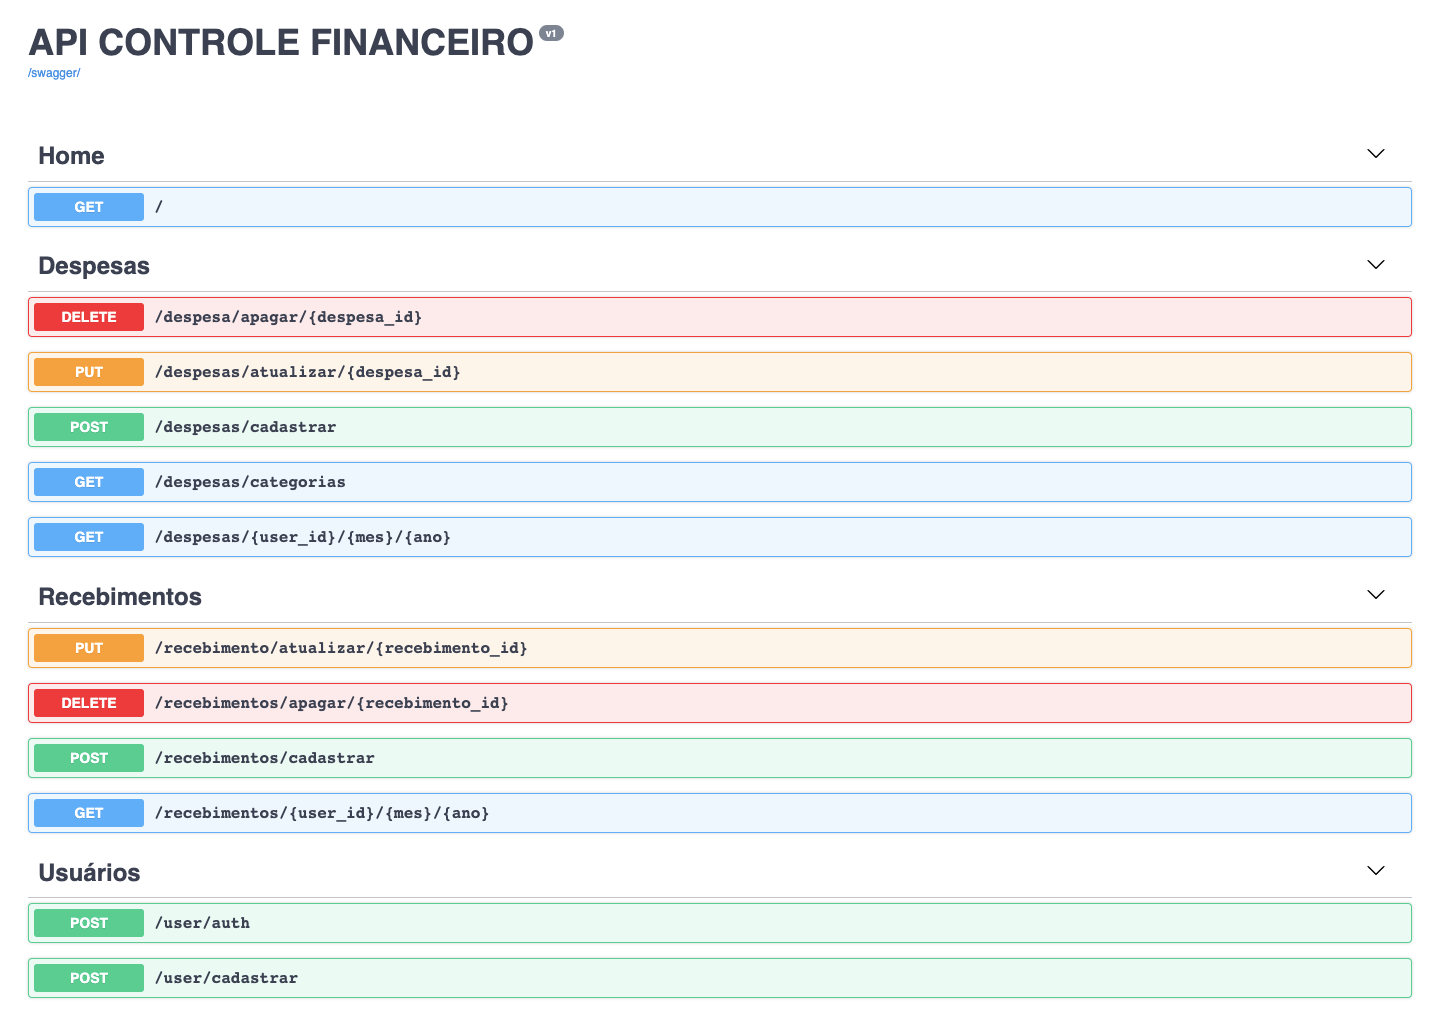
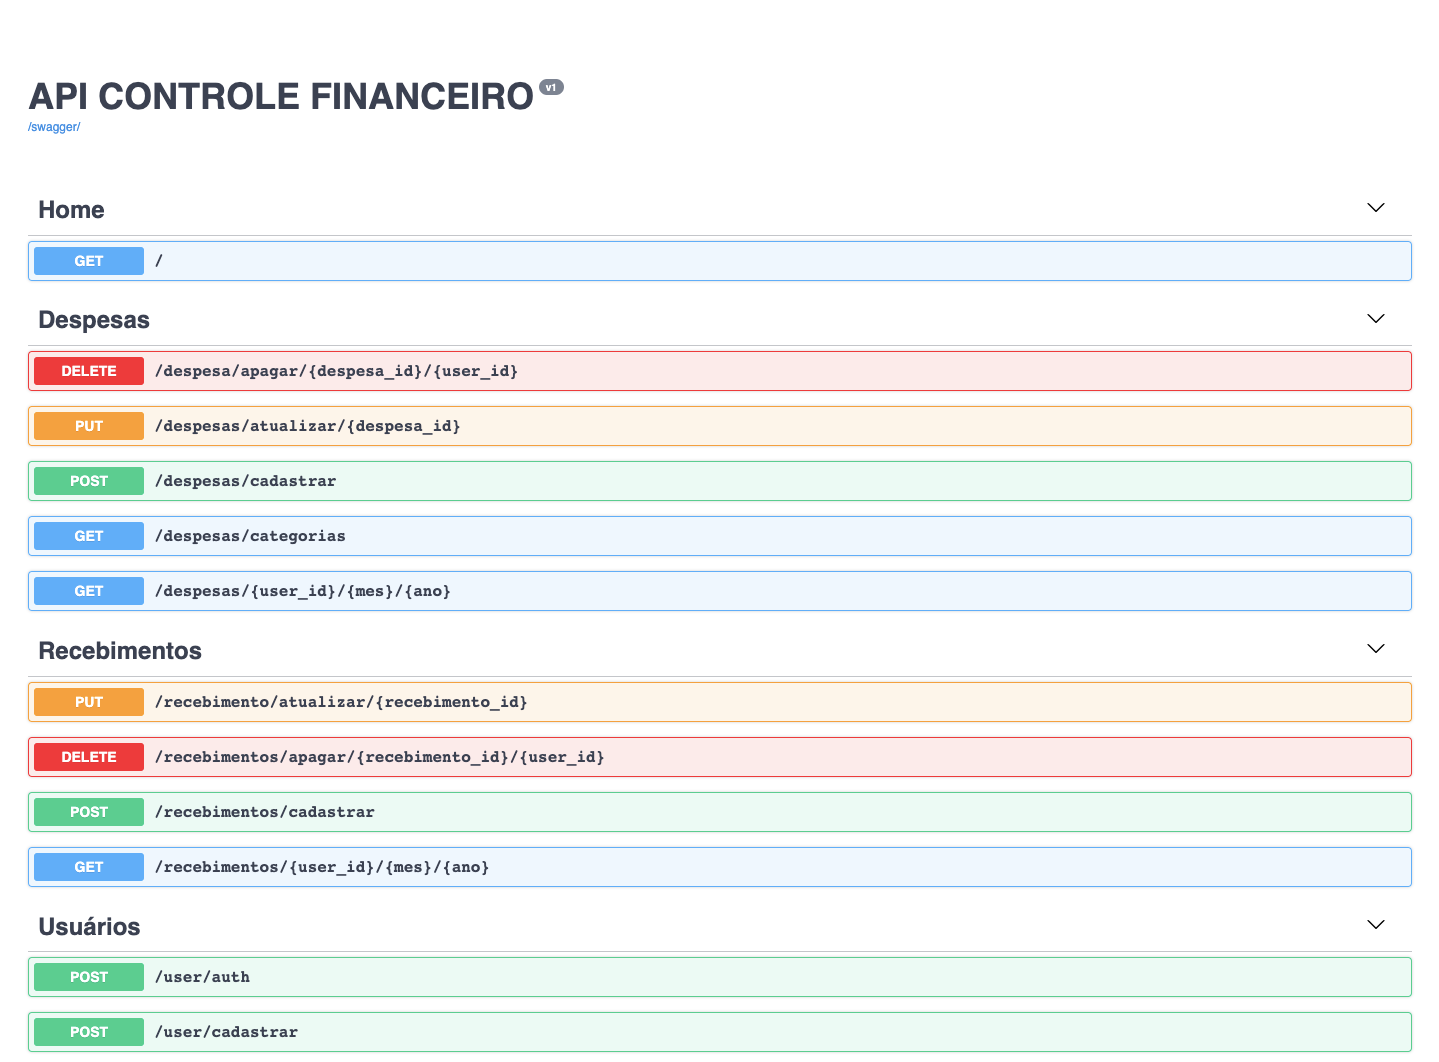
fix: api bug

Changed region(s): [[0.0, 0.0304, 0.9785, 1.0], [0.9479, 0.851, 0.9785, 0.8814], [0.9479, 0.6078, 0.9785, 0.6382]]

diff --git a/api/app.py b/api/app.py
@@ -76,7 +76,7 @@ docs.register(DeletaDespesa)
 # Rotas de recebimentos
 api.add_resource(AtualizaRecebimento, "/recebimento/atualizar/<string:recebimento_id>")
 docs.register(AtualizaRecebimento)
-api.add_resource(Recebimentos, "/recebimentos/<string:user_id>/<string:mes>/<string:ano>/<string:user_id>")
+api.add_resource(Recebimentos, "/recebimentos/<string:user_id>/<string:mes>/<string:ano>")
 docs.register(Recebimentos)
 api.add_resource(CadastraRecebimento, "/recebimentos/cadastrar")
 docs.register(CadastraRecebimento)

diff --git a/api/resources/recebimentos.py b/api/resources/recebimentos.py
@@ -112,7 +112,8 @@ class DeletaRecebimento(MethodResource, Resource):
     })
     @jwt_required
     def delete(self, user_id, recebimento_id):
-
+        if user_id != json.loads(managertk.decodedPayload(get_jwt_identity()))["user_id"]:
+            return {"message": "Usuários divergentes"},400
         recebimentos = RecebimentoModel.deletaRecebimento(recebimento_id)
 
         if recebimentos:
